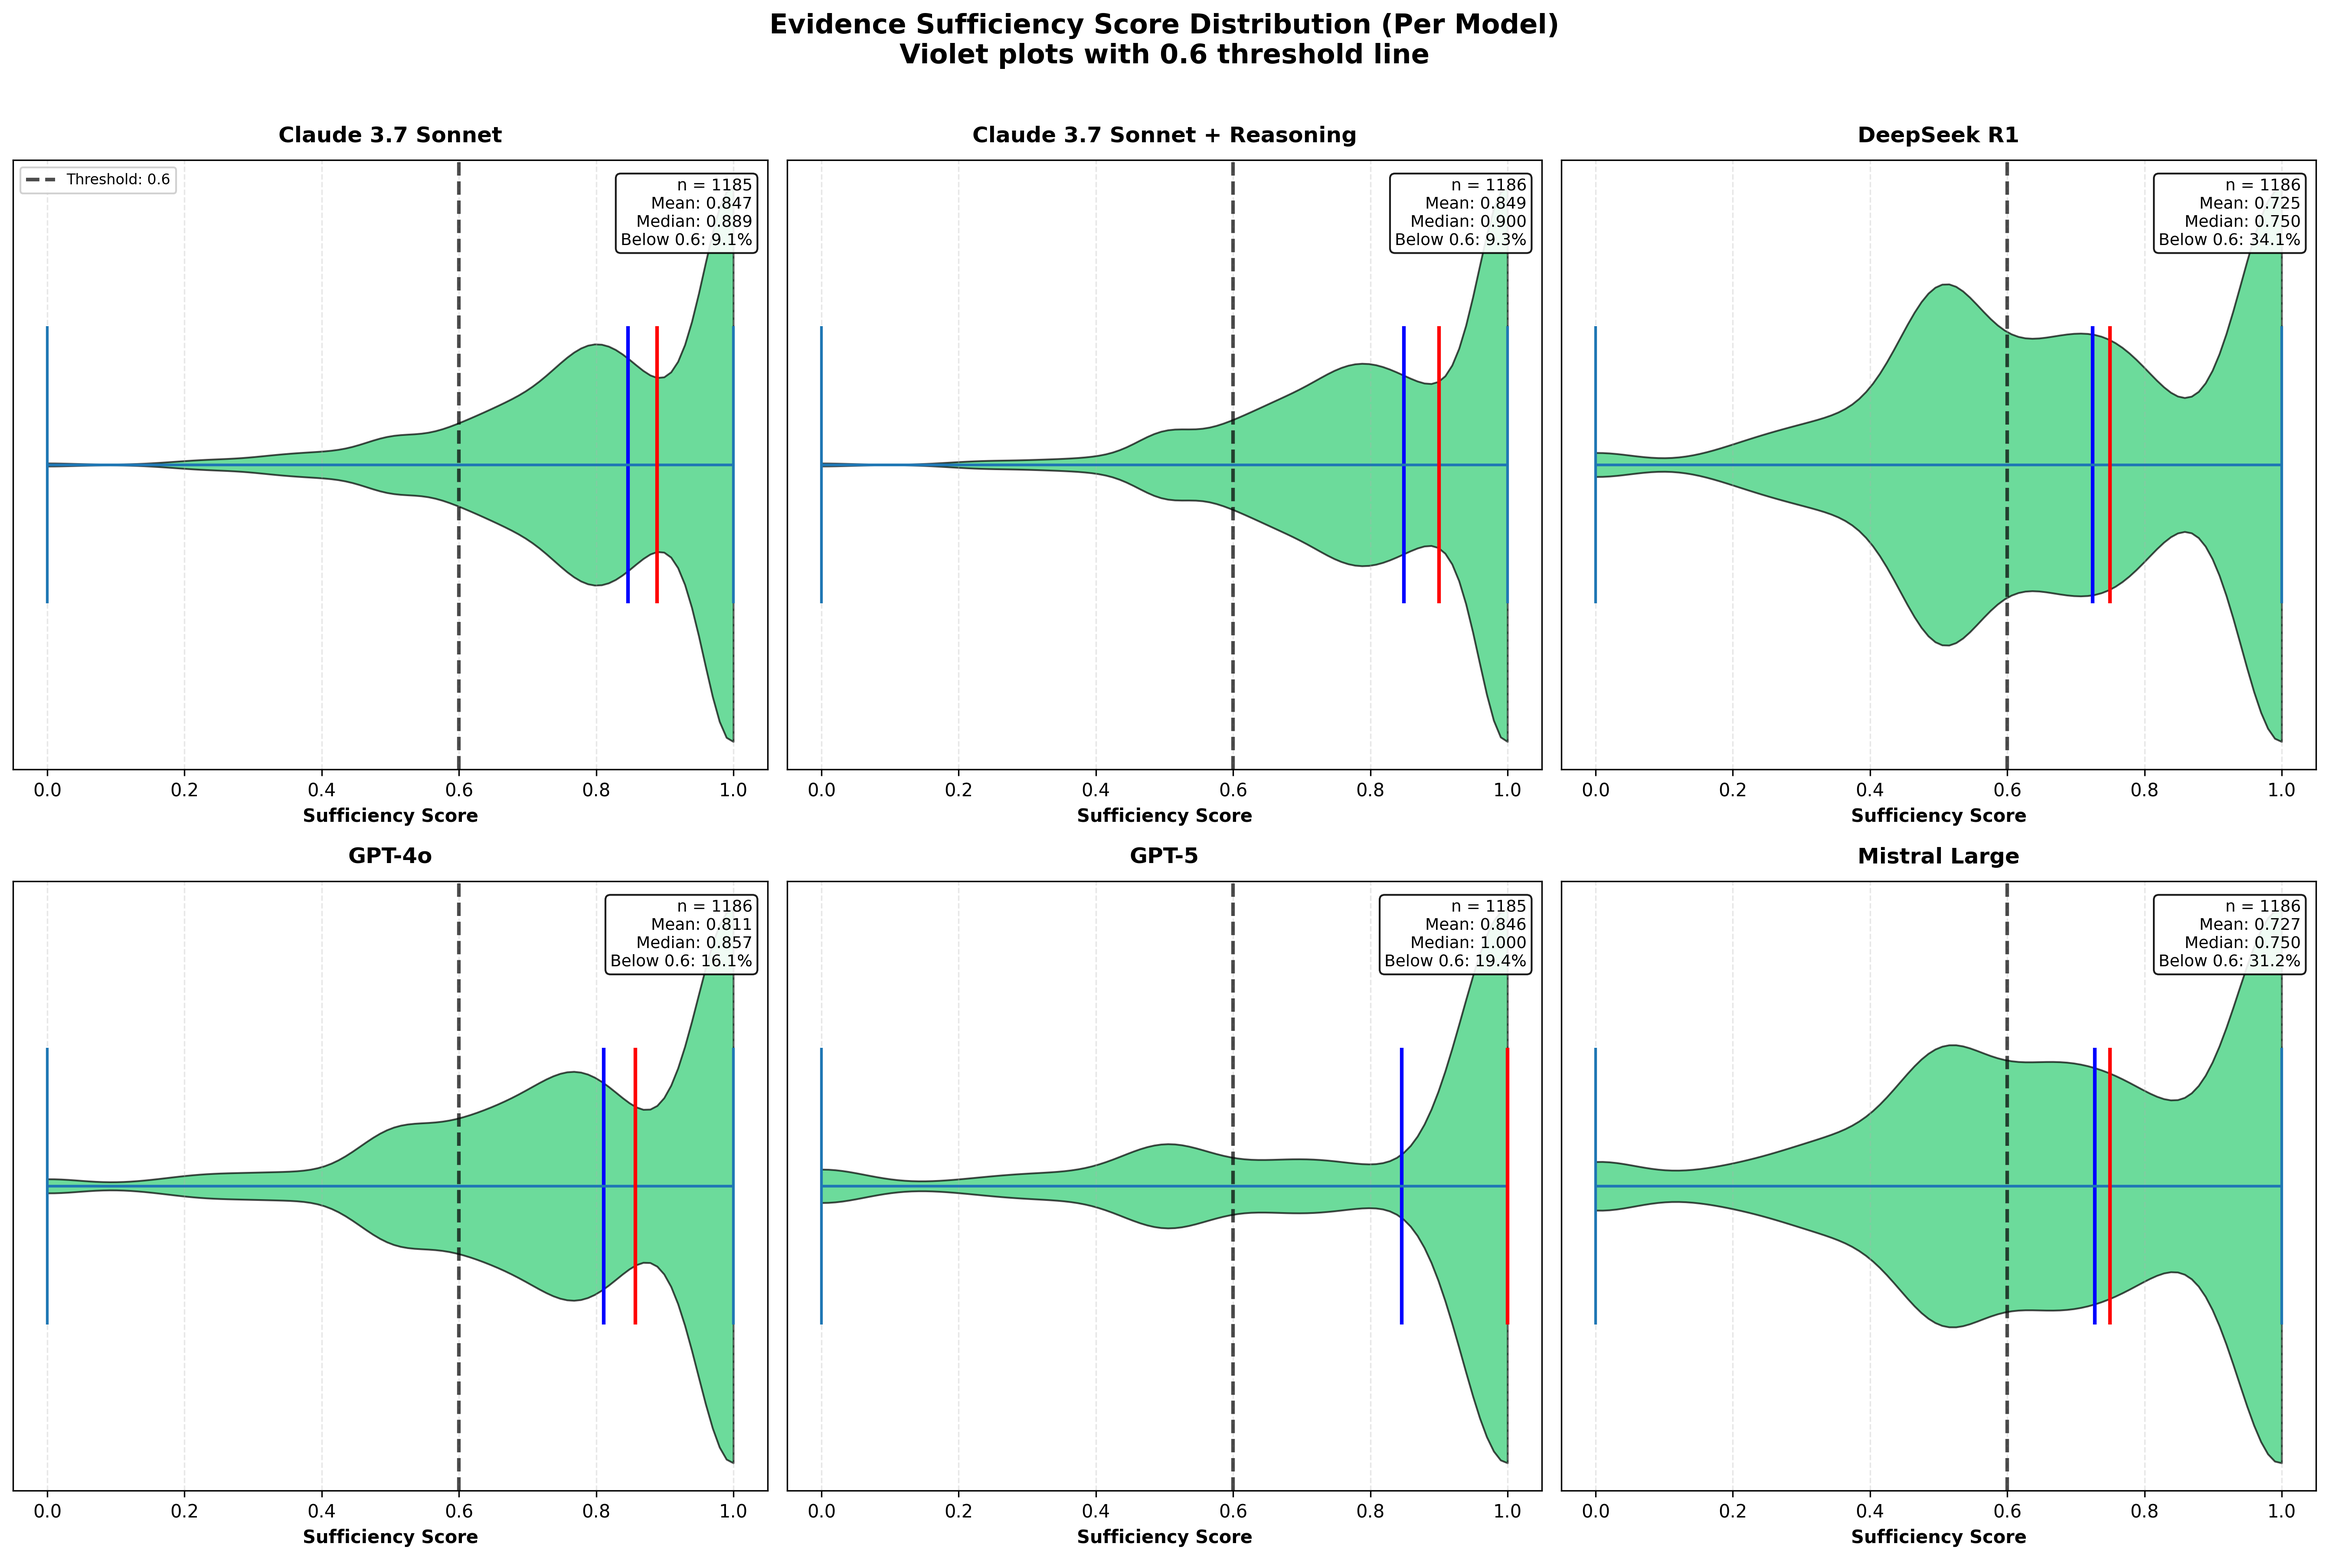
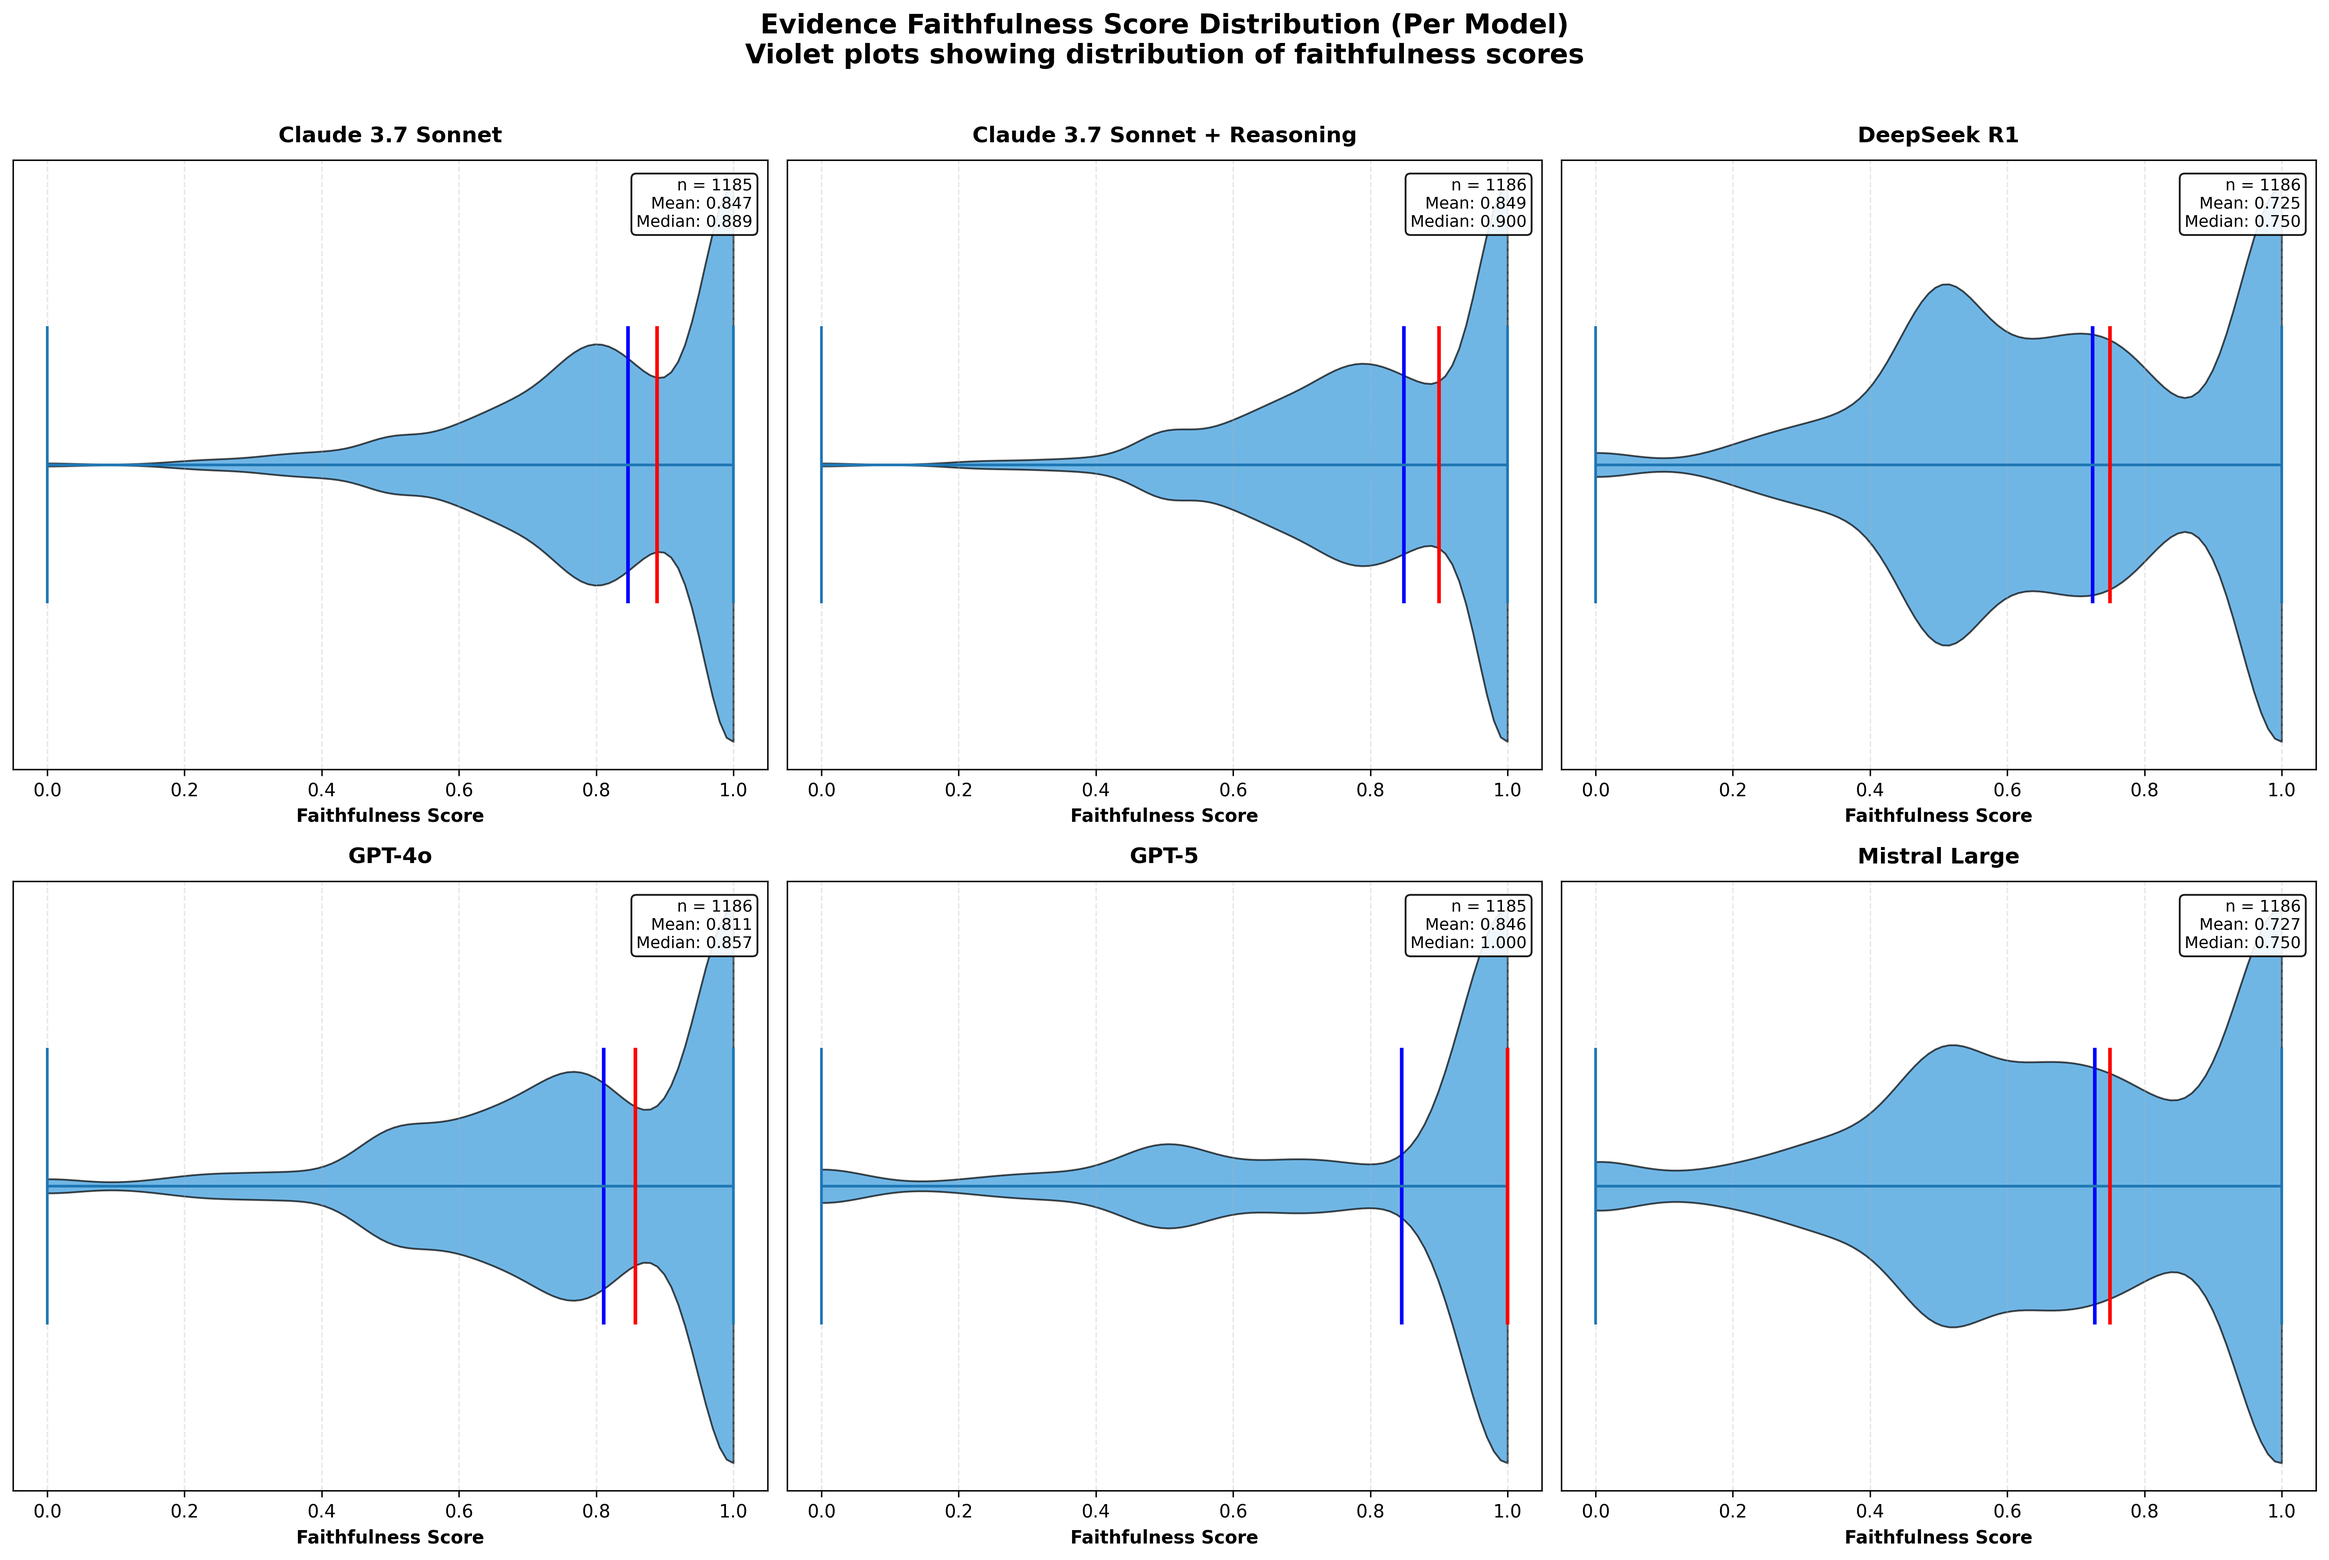
more plots added

diff --git a/src/rag_analysis/hallucination_rag_plots/7_faithfulness_vs_improvement.py b/src/rag_analysis/hallucination_rag_plots/7_faithfulness_vs_improvement.py
@@ -1,0 +1,165 @@
+"""
+Plot 7: Faithfulness vs Accuracy Improvement
+
+Scatter plot showing relationship between average faithfulness score and 
+accuracy improvement (Iterative RAG - Gold Context).
+
+Insight: Does higher faithfulness correlate with better improvement from iterative approach?
+"""
+import json
+import sys
+import csv
+from pathlib import Path
+from collections import defaultdict
+import matplotlib.pyplot as plt
+import numpy as np
+
+# Add parent directory to path
+sys.path.insert(0, str(Path(__file__).resolve().parents[1]))
+from hallucination_rag_plots.hall_plot_utils import (
+    load_hallucination_judgments, normalize_model_name
+)
+
+OUTPUT_DIR = Path(__file__).resolve().parents[2] / 'rag_analysis' / 'output'
+PLOT_DIR = Path(__file__).resolve().parent
+CSV_PATH = Path(__file__).resolve().parents[2] / 'results' / 'reverify_accuracies.csv'
+
+
+def load_accuracies():
+    """Load accuracies from CSV file."""
+    iterative_rag = {}
+    gold_context = {}
+    
+    with open(CSV_PATH, 'r') as f:
+        reader = csv.DictReader(f)
+        for row in reader:
+            folder = row['folder']
+            file_name = row['file_name']
+            accuracy = float(row['accuracy'])
+            
+            # Extract model name from file_name
+            model_key = file_name.replace('responses_', '').replace('_reverified.jsonl', '')
+            
+            if folder == 'Iterative-RAG':
+                iterative_rag[model_key] = accuracy
+            elif folder == 'response-jsonl-with-context':
+                gold_context[model_key] = accuracy
+    
+    # Manually add GPT-5 gold context accuracy
+    gold_context['openai_gpt-5'] = 0.7168
+    
+    return iterative_rag, gold_context
+
+
+def main():
+    """Generate faithfulness vs accuracy improvement plot."""
+    # Load faithfulness scores
+    records = load_hallucination_judgments(OUTPUT_DIR)
+    
+    # Group faithfulness scores by model
+    model_faithfulness = defaultdict(list)
+    
+    for rec in records:
+        model = normalize_model_name(rec.get('model', ''))
+        cf = rec.get('parsed_judgment', {}).get('composition_and_faithfulness', {})
+        suff = cf.get('sufficiency_score_est')
+        if suff is not None:
+            model_faithfulness[model].append(float(suff))
+    
+    # Calculate average faithfulness per model
+    avg_faithfulness = {}
+    for model, scores in model_faithfulness.items():
+        avg_faithfulness[model] = np.mean(scores)
+    
+    # Load accuracies
+    iterative_rag, gold_context = load_accuracies()
+    
+    # Model name mapping for matching
+    model_mapping = {
+        'bedrock_mistral.mistral-large-2402-v1:0': 'Mistral Large',
+        'bedrock_us.anthropic.claude-3-7-sonnet-20250219-v1:0': 'Claude 3.7 Sonnet',
+        'bedrock_us.anthropic.claude-3-7-sonnet-20250219-v1:0-reasoning': 'Claude 3.7 Sonnet + Reasoning',
+        'bedrock_us.deepseek.r1-v1:0-reasoning': 'DeepSeek R1',
+        'openai_gpt-4o': 'GPT-4o',
+        'openai_gpt-5': 'GPT-5',
+    }
+    
+    # Prepare data for plotting
+    plot_data = []
+    
+    for model_key, normalized_name in model_mapping.items():
+        if model_key in iterative_rag and model_key in gold_context:
+            if normalized_name in avg_faithfulness:
+                faith = avg_faithfulness[normalized_name]
+                improvement = (iterative_rag[model_key] - gold_context[model_key]) * 100  # Convert to percentage points
+                plot_data.append({
+                    'model': normalized_name,
+                    'faithfulness': faith,
+                    'improvement': improvement
+                })
+    
+    if not plot_data:
+        print("No matching data found!")
+        return
+    
+    # Create scatter plot
+    fig, ax = plt.subplots(figsize=(12, 8))
+    
+    # Extract data
+    models = [d['model'] for d in plot_data]
+    faithfulness = [d['faithfulness'] for d in plot_data]
+    improvements = [d['improvement'] for d in plot_data]
+    
+    # Define colors for each model
+    colors = plt.cm.Set2(np.linspace(0, 1, len(models)))
+    
+    # Plot points
+    for i, (model, faith, imp, color) in enumerate(zip(models, faithfulness, improvements, colors)):
+        ax.scatter(faith, imp, s=400, alpha=0.7, color=color, 
+                  edgecolors='black', linewidth=2, label=model)
+        
+        # Add model name annotation
+        ax.annotate(model, (faith, imp), 
+                   textcoords="offset points", xytext=(0, -20),
+                   ha='center', fontsize=9, fontweight='bold')
+    
+    # Calculate and display correlation (without trend line)
+    if len(faithfulness) > 1:
+        correlation = np.corrcoef(faithfulness, improvements)[0, 1]
+        ax.text(0.02, 0.98, f'Correlation: {correlation:.3f}', 
+               transform=ax.transAxes, fontsize=11, verticalalignment='top',
+               bbox=dict(boxstyle='round', facecolor='white', alpha=0.9))
+    
+    # Add zero line
+    ax.axhline(y=0, color='red', linestyle='-', linewidth=1, alpha=0.5)
+    
+    # Formatting
+    ax.set_xlabel('Average Faithfulness Score', fontsize=13, fontweight='bold')
+    ax.set_ylabel('Accuracy Improvement (Iterative RAG - Gold Context) [%]', 
+                 fontsize=13, fontweight='bold')
+    ax.set_title('Relationship Between Faithfulness and Iterative RAG Improvement\nOver Gold Context Baseline', 
+                fontsize=15, fontweight='bold', pad=20)
+    ax.grid(True, alpha=0.3, linestyle='--')
+    ax.legend(loc='upper left', framealpha=0.9, fontsize=10)
+    
+    # Set reasonable axis limits
+    ax.set_xlim(min(faithfulness) - 0.05, max(faithfulness) + 0.05)
+    y_range = max(improvements) - min(improvements)
+    ax.set_ylim(min(improvements) - 0.1*y_range, max(improvements) + 0.1*y_range)
+    
+    plt.tight_layout()
+    output_path = PLOT_DIR / '7_faithfulness_vs_improvement.png'
+    plt.savefig(output_path, dpi=300, bbox_inches='tight')
+    print(f"Saved: {output_path}")
+    plt.close()
+    
+    # Print statistics
+    print("\n=== Faithfulness vs Accuracy Improvement ===")
+    for data in sorted(plot_data, key=lambda x: x['faithfulness'], reverse=True):
+        print(f"\n{data['model']}:")
+        print(f"  Avg Faithfulness: {data['faithfulness']:.3f}")
+        print(f"  Improvement: {data['improvement']:.2f} percentage points")
+
+
+if __name__ == '__main__':
+    main()

diff --git a/src/rag_analysis/hallucination_rag_plots/6_sufficiency_distribution.py b/src/rag_analysis/hallucination_rag_plots/6_sufficiency_distribution.py
@@ -1,7 +1,7 @@
 """
-Plot 6: Evidence Sufficiency Distribution (Per Model)
+Plot 6: Evidence Faithfulness Distribution (Per Model)
 
-Violin/histogram plot of sufficiency_score_est with threshold line at 0.6.
+Violin/histogram plot of faithfulness scores.
 6 subplots, one for each model.
 
 Insight: How well does the evidence support the answers?
@@ -24,10 +24,10 @@ PLOT_DIR = Path(__file__).resolve().parent
 
 
 def main():
-    """Generate sufficiency score distribution plot with 6 subplots (one per model)."""
+    """Generate faithfulness score distribution plot with 6 subplots (one per model)."""
     records = load_hallucination_judgments(OUTPUT_DIR)
     
-    # Group sufficiency scores by model
+    # Group faithfulness scores by model
     model_scores = defaultdict(list)
     
     for rec in records:
@@ -41,14 +41,12 @@ def main():
     models = sorted(model_scores.keys())
     
     if len(models) == 0:
-        print("No sufficiency scores found!")
+        print("No faithfulness scores found!")
         return
     
     # Create figure with 2x3 subplots
     fig, axes = plt.subplots(2, 3, figsize=(18, 12))
     axes = axes.flatten()
-    
-    threshold = 0.6
     
     # Plot each model
     for idx, model in enumerate(models):
@@ -68,12 +66,9 @@ def main():
         parts = ax.violinplot([scores], positions=[0], vert=False, widths=0.7,
                              showmeans=True, showmedians=True)
         
-        # Color the violin based on mean score
+        # Color the violin
         mean_val = np.mean(scores)
-        if mean_val < threshold:
-            color = '#e74c3c'  # Red
-        else:
-            color = '#2ecc71'  # Green
+        color = '#3498db'  # Blue
         
         for pc in parts['bodies']:
             pc.set_facecolor(color)
@@ -87,42 +82,31 @@ def main():
         parts['cmedians'].set_color('red')
         parts['cmedians'].set_linewidth(2)
         
-        # Add threshold line
-        ax.axvline(x=threshold, color='black', linestyle='--', linewidth=2,
-                  alpha=0.7, label=f'Threshold: {threshold}')
-        
         # Calculate statistics
         median_val = np.median(scores)
-        below_threshold = sum(1 for s in scores if s < threshold)
-        below_pct = 100 * below_threshold / len(scores)
         
         # Add text box with statistics
         stats_text = f'n = {len(scores)}\n'
         stats_text += f'Mean: {mean_val:.3f}\n'
-        stats_text += f'Median: {median_val:.3f}\n'
-        stats_text += f'Below {threshold}: {below_pct:.1f}%'
+        stats_text += f'Median: {median_val:.3f}'
         
         ax.text(0.98, 0.97, stats_text, transform=ax.transAxes,
                fontsize=9, verticalalignment='top', horizontalalignment='right',
                bbox=dict(boxstyle='round', facecolor='white', alpha=0.9))
         
         # Formatting
-        ax.set_xlabel('Sufficiency Score', fontsize=10, fontweight='bold')
+        ax.set_xlabel('Faithfulness Score', fontsize=10, fontweight='bold')
         ax.set_title(model, fontsize=12, fontweight='bold', pad=10)
         ax.set_xlim(-0.05, 1.05)
         ax.set_yticks([])
         ax.grid(axis='x', alpha=0.3, linestyle='--')
-        
-        # Add legend only to first subplot
-        if idx == 0:
-            ax.legend(loc='upper left', framealpha=0.9, fontsize=8)
     
     # Hide unused subplots
     for idx in range(len(models), 6):
         axes[idx].axis('off')
     
     # Overall title
-    fig.suptitle('Evidence Sufficiency Score Distribution (Per Model)\nViolet plots with 0.6 threshold line',
+    fig.suptitle('Evidence Faithfulness Score Distribution (Per Model)\nViolet plots showing distribution of faithfulness scores',
                 fontsize=15, fontweight='bold', y=0.995)
     
     plt.tight_layout(rect=[0, 0, 1, 0.985])
@@ -132,17 +116,14 @@ def main():
     plt.close()
     
     # Print statistics
-    print("\n=== Sufficiency Score Statistics (Per Model) ===")
+    print("\n=== Faithfulness Score Statistics (Per Model) ===")
     for model in sorted(models):
         scores = model_scores[model]
         mean_val = np.mean(scores)
         median_val = np.median(scores)
-        below_threshold = sum(1 for s in scores if s < threshold)
-        below_pct = 100 * below_threshold / len(scores)
         
         print(f"\n{model}:")
         print(f"  Total runs: {len(scores)}")
-        print(f"  Below threshold ({threshold}): {below_pct:.1f}%")
         print(f"  Mean: {mean_val:.3f}")
         print(f"  Median: {median_val:.3f}")
         print(f"  Std: {np.std(scores):.3f}")
